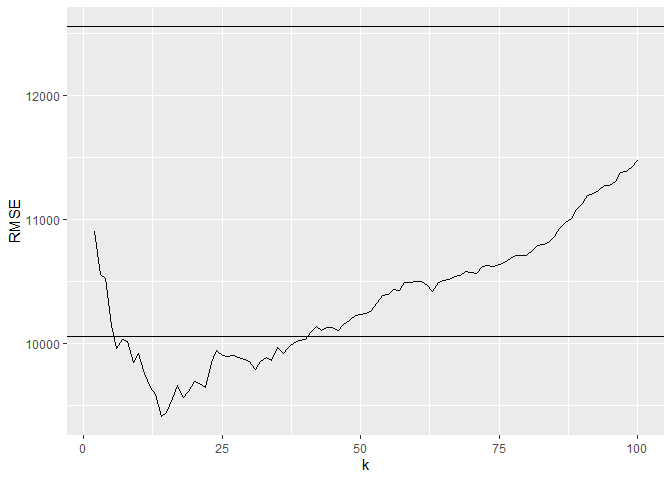
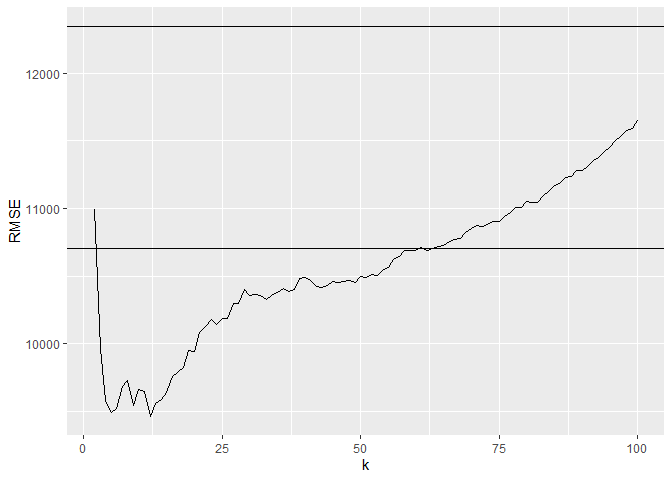
Trying Again

diff --git a/Harrison/HW1_P4.md b/Harrison/HW1_P4.md
@@ -1,27 +1,3 @@
-\`\`\`{r, echo=FALSE} sclass\_clean = sclass %&gt;% select(trim,
-mileage, price)%&gt;% filter(trim==‘65 AMG’ | trim==‘350’)
-
-sclass\_350 = sclass\_clean%&gt;% filter(trim==‘350’)
-
-sclass350\_split = initial\_split(sclass\_350, prop = 0.8)
-sclass350\_train = training(sclass350\_split) sclass350\_test =
-testing(sclass350\_split)
-
-lm1 = lm(price ~ mileage, data=sclass350\_train) lm2 = lm(price ~
-poly(mileage, 2), data=sclass350\_train)
-
-linear\_bench = rmse(lm1, sclass350\_test) quad\_bench = rmse(lm2,
-sclass350\_test)
-
-knn\_opts = foreach(i = 2:100, .combine=‘rbind’) %do% { err =
-rmse(knnreg(price ~ mileage, data=sclass350\_train,
-k=i),sclass350\_test) }%&gt;% as.data.frame()
-
-knn\_opts = data.frame(knn\_opts,2:100)
-
-knn\_opts = knn\_opts%&gt;% mutate(RMSE = V1, k = X2.100)%&gt;%
-select(RMSE,k)
-
-ggplot(knn\_opts)+ geom\_line(aes(y=RMSE,x=k))+
-geom\_hline(aes(yintercept=quad\_bench))+
-geom\_hline(aes(yintercept=linear\_bench)) \`\`\`
+Here is our chart of RMSE vs K for the 350 trim.
+![](HW1_P4_files/figure-markdown_strict/unnamed-chunk-1-1.png) This
+appears to bottom out around k=25.
